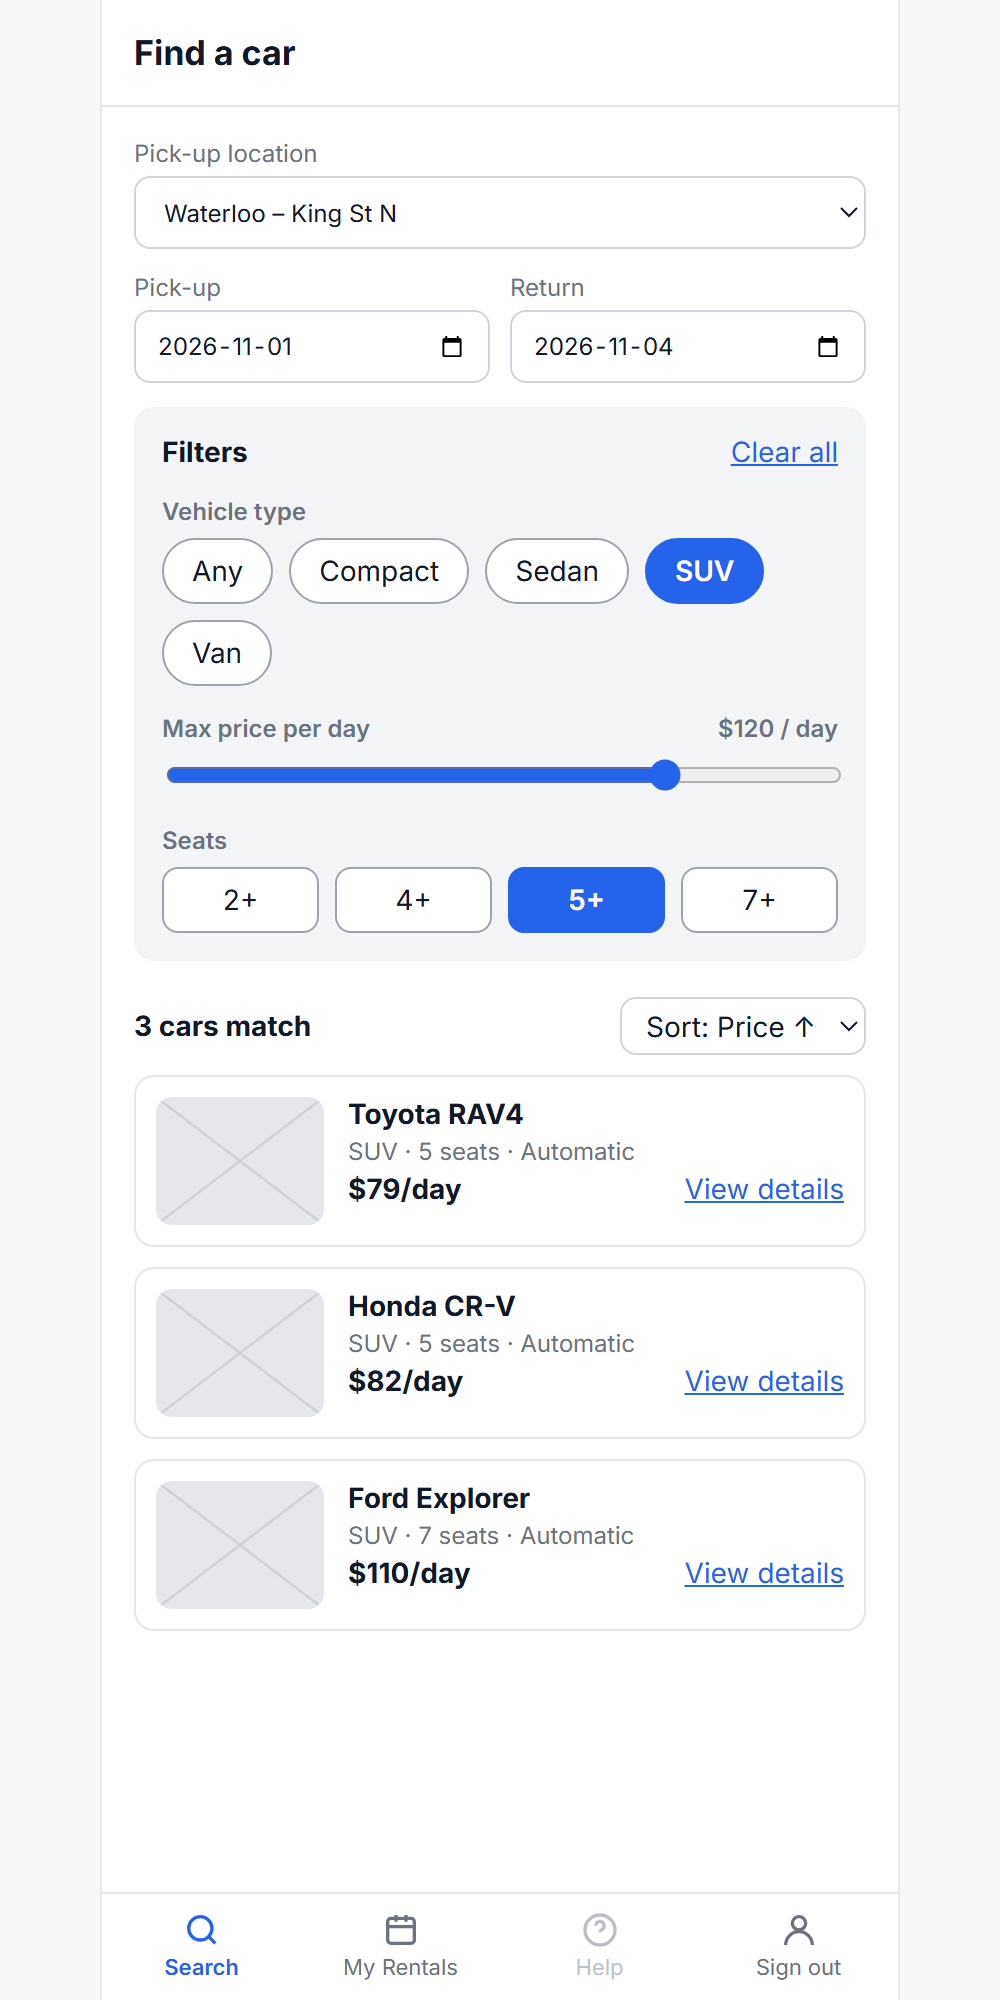
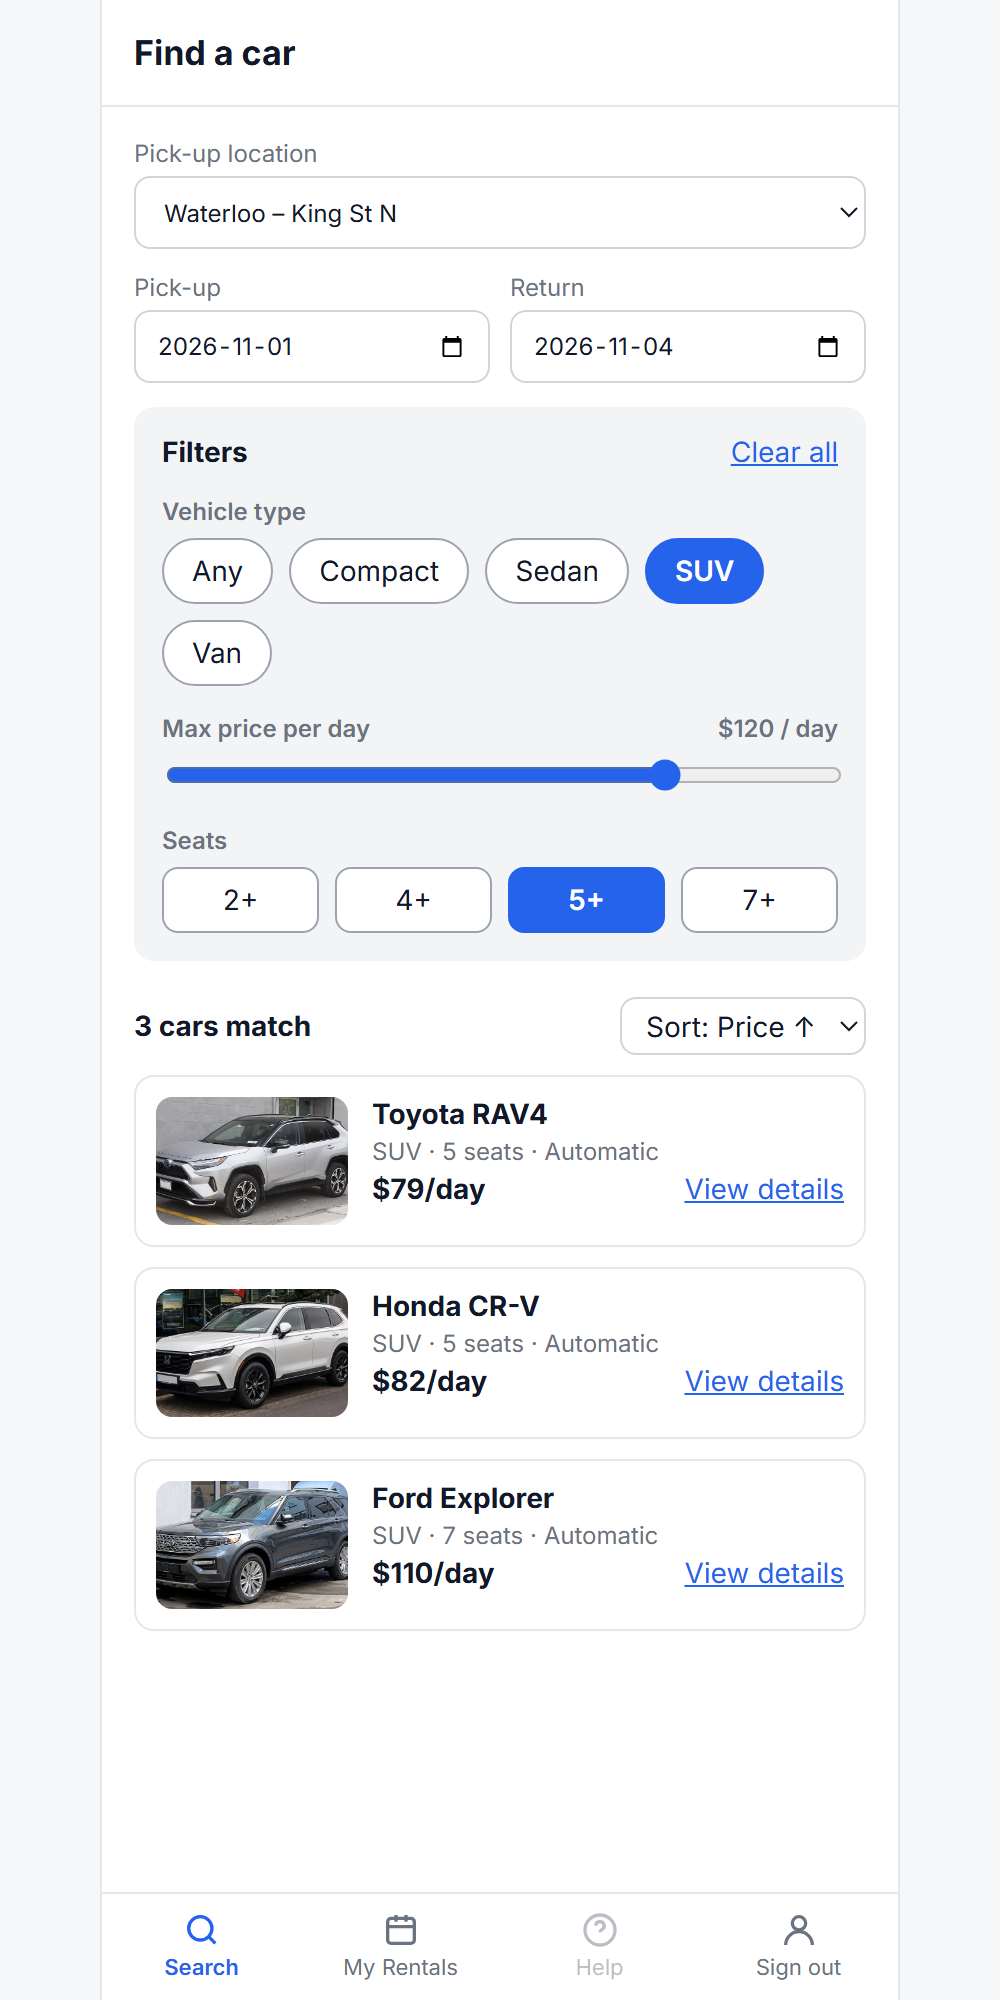
Added images

Changed region(s): [[0.155, 0.527, 0.651, 0.806]]

diff --git a/templates/rentals.html b/templates/rentals.html
@@ -11,10 +11,13 @@
 
 <div class="label caps">Upcoming</div>
 {% for r in upcoming %}
-<div class="booking">
-  <div class="between"><b>{{ r.model }}</b><span>#{{ r.id }}</span></div>
-  <div class="small muted">{{ r.pickup_date }} → {{ r.return_date }} · {{ r.branch }}</div>
-  <div class="small">Total ${{ '%.2f' % r.total }}</div>
+<div class="booking car">
+  {% if r.image %}<img class="thumb" src="{{ url_for('static', filename='cars/' ~ r.image) }}" alt="{{ r.model }}">{% endif %}
+  <div class="car-info">
+    <div class="between"><b>{{ r.model }}</b><span>#{{ r.id }}</span></div>
+    <div class="small muted">{{ r.pickup_date }} → {{ r.return_date }} · {{ r.branch }}</div>
+    <div class="small">Total ${{ '%.2f' % r.total }}</div>
+  </div>
 </div>
 {% else %}
 <p class="muted">No upcoming rentals yet. <a href="{{ url_for('search') }}">Find a car</a></p>

diff --git a/static/style.css b/static/style.css
@@ -81,6 +81,10 @@ input[type=checkbox] { accent-color: var(--blue); width: 16px; height: 16px; ver
 
 .car { display: flex; gap: 12px; border: 1px solid var(--line); border-radius: 10px; padding: 10px; margin-bottom: 10px; }
 .car .thumb { width: 84px; height: 64px; flex: none; }
+img.thumb, img.hero, img.record-photo { display: block; width: 100%; object-fit: cover; border-radius: 8px; background: var(--line); }
+.car img.thumb { width: 96px; height: 64px; }
+img.hero { height: 190px; }
+img.record-photo { height: 150px; margin-top: 10px; }
 .car-info { flex: 1; display: flex; flex-direction: column; gap: 3px; }
 
 .hero { height: 150px; display: grid; place-items: center; }

diff --git a/templates/fleet.html b/templates/fleet.html
@@ -33,6 +33,7 @@
   <div class="card record">
     <div class="between"><b style="font-size:16px">{{ selected.model }} · {{ selected.plate }}</b>
       <span class="badge b-{{ selected.status }}">{{ selected.status|capitalize }}</span></div>
+    {% if selected.image %}<img class="record-photo" src="{{ url_for('static', filename='cars/' ~ selected.image) }}" alt="{{ selected.model }}">{% endif %}
     <div class="row2" style="margin-top:10px">
       <label class="field">Type<input value="{{ selected.type }}" disabled></label>
       <label class="field">Seats<input value="{{ selected.seats }}" disabled></label>

diff --git a/templates/vehicle.html b/templates/vehicle.html
@@ -4,7 +4,8 @@
 <a class="back" href="{{ url_for('search', pickup=pickup, dropoff=dropoff) }}" aria-label="Back">‹</a> Vehicle details
 {% endblock %}
 {% block content %}
-<div class="ph hero"><span>VEHICLE PHOTOS</span></div>
+{% if car.image %}<img class="hero" src="{{ url_for('static', filename='cars/' ~ car.image) }}" alt="{{ car.model }}">
+{% else %}<div class="ph hero"><span>VEHICLE PHOTOS</span></div>{% endif %}
 <h2>{{ car.model }}</h2>
 <div class="muted">{{ car.type }} · {{ car.seats }} seats · {{ car.transmission }} · {{ car.fuel }}</div>
 

diff --git a/templates/search.html b/templates/search.html
@@ -45,7 +45,8 @@
 
 {% for car in cars %}
 <div class="car">
-  <div class="ph thumb"></div>
+  {% if car.image %}<img class="thumb" src="{{ url_for('static', filename='cars/' ~ car.image) }}" alt="{{ car.model }}">
+  {% else %}<div class="ph thumb"></div>{% endif %}
   <div class="car-info">
     <b>{{ car.model }}</b>
     <span class="muted small">{{ car.type }} · {{ car.seats }} seats · {{ car.transmission }}</span>

diff --git a/db.py b/db.py
@@ -54,22 +54,24 @@ def seed(db):
             ("staff@example.com", generate_password_hash("password"), "Jordan Patel", "staff"),
         ],
     )
+    vehicles = [
+        ("Mitsubishi Mirage", "CKRT 214", "Compact", 4, 39, "Automatic", "Gasoline", "active"),
+        ("Kia Rio", "CLMB 552", "Compact", 5, 44, "Automatic", "Gasoline", "active"),
+        ("Toyota Corolla", "CPDX 318", "Sedan", 5, 55, "Automatic", "Hybrid", "active"),
+        ("Honda Civic", "CRWA 907", "Sedan", 5, 58, "Automatic", "Gasoline", "active"),
+        ("Nissan Sentra", "BXTE 441", "Sedan", 5, 50, "Automatic", "Gasoline", "retired"),
+        ("Toyota RAV4", "CSJK 120", "SUV", 5, 79, "Automatic", "Hybrid", "active"),
+        ("Honda CR-V", "CTLP 663", "SUV", 5, 82, "Automatic", "Gasoline", "active"),
+        ("Kia Sorento", "CVNE 285", "SUV", 7, 95, "Automatic", "Gasoline", "active"),
+        ("Ford Explorer", "CWHB 738", "SUV", 7, 110, "Automatic", "Gasoline", "active"),
+        ("Chrysler Pacifica", "CXMR 019", "Van", 7, 105, "Automatic", "Hybrid", "maintenance"),
+        ("Toyota Sienna", "CYAF 376", "Van", 8, 115, "Automatic", "Hybrid", "active"),
+    ]
+    # Photos live in static/cars/, named after the model, e.g. "Honda CR-V" -> honda-cr-v.jpg
     db.executemany(
-        "INSERT INTO vehicles (model, plate, type, seats, daily_rate, transmission, fuel, status)"
-        " VALUES (?, ?, ?, ?, ?, ?, ?, ?)",
-        [
-            ("Mitsubishi Mirage", "CKRT 214", "Compact", 4, 39, "Automatic", "Gasoline", "active"),
-            ("Kia Rio", "CLMB 552", "Compact", 5, 44, "Automatic", "Gasoline", "active"),
-            ("Toyota Corolla", "CPDX 318", "Sedan", 5, 55, "Automatic", "Hybrid", "active"),
-            ("Honda Civic", "CRWA 907", "Sedan", 5, 58, "Automatic", "Gasoline", "active"),
-            ("Nissan Sentra", "BXTE 441", "Sedan", 5, 50, "Automatic", "Gasoline", "retired"),
-            ("Toyota RAV4", "CSJK 120", "SUV", 5, 79, "Automatic", "Hybrid", "active"),
-            ("Honda CR-V", "CTLP 663", "SUV", 5, 82, "Automatic", "Gasoline", "active"),
-            ("Kia Sorento", "CVNE 285", "SUV", 7, 95, "Automatic", "Gasoline", "active"),
-            ("Ford Explorer", "CWHB 738", "SUV", 7, 110, "Automatic", "Gasoline", "active"),
-            ("Chrysler Pacifica", "CXMR 019", "Van", 7, 105, "Automatic", "Hybrid", "maintenance"),
-            ("Toyota Sienna", "CYAF 376", "Van", 8, 115, "Automatic", "Hybrid", "active"),
-        ],
+        "INSERT INTO vehicles (model, plate, type, seats, daily_rate, transmission, fuel, status, image)"
+        " VALUES (?, ?, ?, ?, ?, ?, ?, ?, ?)",
+        [(*v, v[0].lower().replace(" ", "-") + ".jpg") for v in vehicles],
     )
 
     # Bookings are relative to today so the dashboard always has something to show.

diff --git a/app.py b/app.py
@@ -164,7 +164,7 @@ def reserve(vehicle_id):
 @login_required("customer")
 def my_rentals():
     upcoming = get_db().execute(
-        "SELECT r.*, v.model FROM reservations r JOIN vehicles v ON v.id = r.vehicle_id"
+        "SELECT r.*, v.model, v.image FROM reservations r JOIN vehicles v ON v.id = r.vehicle_id"
         " WHERE r.user_id = ? AND r.status = 'confirmed' AND r.return_date >= ?"
         " ORDER BY r.pickup_date",
         [session["user_id"], date.today().isoformat()]).fetchall()

diff --git a/static/cars/CREDITS.md b/static/cars/CREDITS.md
@@ -1,0 +1,17 @@
+# Vehicle photo credits
+
+Photos are from Wikimedia Commons, resized to 720px wide. They are used under the licences below.
+
+| File | Vehicle | Author | Licence | Source |
+|---|---|---|---|---|
+| chrysler-pacifica.jpg | Chrysler Pacifica | Mr.choppers | CC BY-SA 3.0 | [Commons](https://commons.wikimedia.org/wiki/File:2020_Chrysler_Pacifica_Touring-L_in_Bright_White,_front_left.jpg) |
+| ford-explorer.jpg | Ford Explorer | Alexander Migl | CC BY-SA 4.0 | [Commons](https://commons.wikimedia.org/wiki/File:Ford_Explorer_(sixth_generation)_IMG_6063.jpg) |
+| honda-cr-v.jpg | Honda CR-V | © M 93 | CC BY-SA 3.0 de | [Commons](https://commons.wikimedia.org/wiki/File:Honda_CR-V_e-HEV_Elegance_AWD_(VI)_%E2%80%93_f_14072024.jpg) |
+| honda-civic.jpg | Honda Civic | © M 93 | CC BY-SA 3.0 de | [Commons](https://commons.wikimedia.org/wiki/File:Honda_Civic_e-HEV_Sport_(XI)_%E2%80%93_f_30062024.jpg) |
+| kia-rio.jpg | Kia Rio | Vauxford | CC BY-SA 4.0 | [Commons](https://commons.wikimedia.org/wiki/File:2021_Kia_Rio_3_MHEV_facelift_1.0.jpg) |
+| kia-sorento.jpg | Kia Sorento | Kevauto | CC BY-SA 4.0 | [Commons](https://commons.wikimedia.org/wiki/File:2024_Kia_Sorento_X-Line_SX_Prestige_(facelift),_front_12.20.24.jpg) |
+| mitsubishi-mirage.jpg | Mitsubishi Mirage | Mr.choppers | CC BY-SA 3.0 | [Commons](https://commons.wikimedia.org/wiki/File:2021_Mitsubishi_Mirage_Carbonite_Edition_in_White_Diamond,_front_right.jpg) |
+| nissan-sentra.jpg | Nissan Sentra | Alexander Migl | CC BY-SA 4.0 | [Commons](https://commons.wikimedia.org/wiki/File:2024_Nissan_Sentra_(B18)_DSC_3754.jpg) |
+| toyota-corolla.jpg | Toyota Corolla | Alexander Migl | CC BY-SA 4.0 | [Commons](https://commons.wikimedia.org/wiki/File:Toyota_Corolla_Hybrid_(E210)_IMG_4338.jpg) |
+| toyota-rav4.jpg | Toyota RAV4 | Mr.choppers | CC BY-SA 4.0 | [Commons](https://commons.wikimedia.org/wiki/File:2024_Toyota_RAV4_Prime_XSE_Premium_in_Silver_Sky_with_Midnight_Black_roof,_front_left.jpg) |
+| toyota-sienna.jpg | Toyota Sienna | Kevauto | CC BY-SA 4.0 | [Commons](https://commons.wikimedia.org/wiki/File:2021_Toyota_Sienna_XLE_Hybrid,_front_12.21.21.jpg) |

diff --git a/README.md b/README.md
@@ -30,3 +30,5 @@ Demo accounts (password `password`):
 - `rentals.py` – search, availability, pricing and inventory rules
 - `db.py` / `schema.sql` – SQLite connection, tables and seed data
 - `templates/`, `static/style.css` – pages based on the Milestone 02 mock-ups
+
+Vehicle photos come from Wikimedia Commons (CC BY-SA); see [static/cars/CREDITS.md](static/cars/CREDITS.md).
